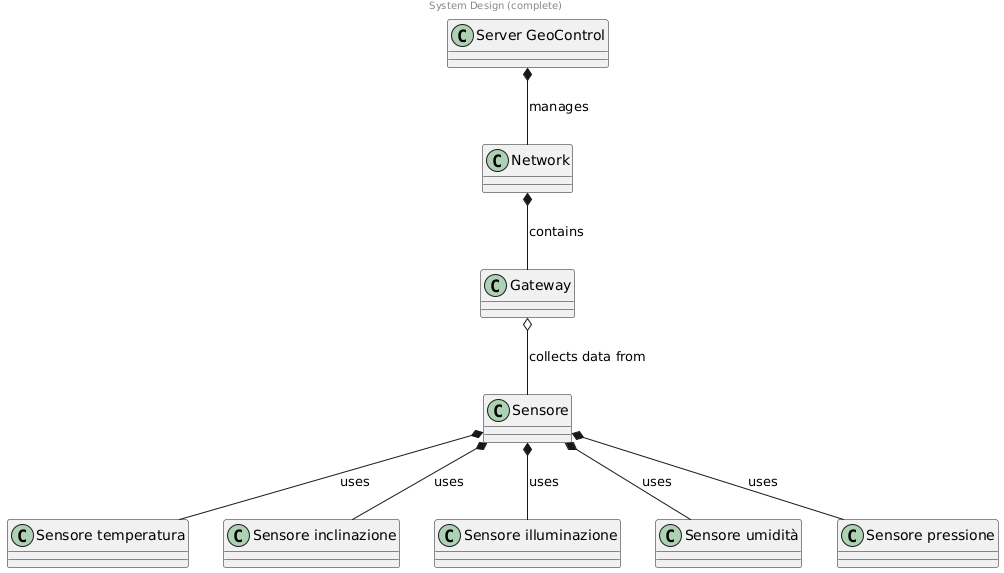
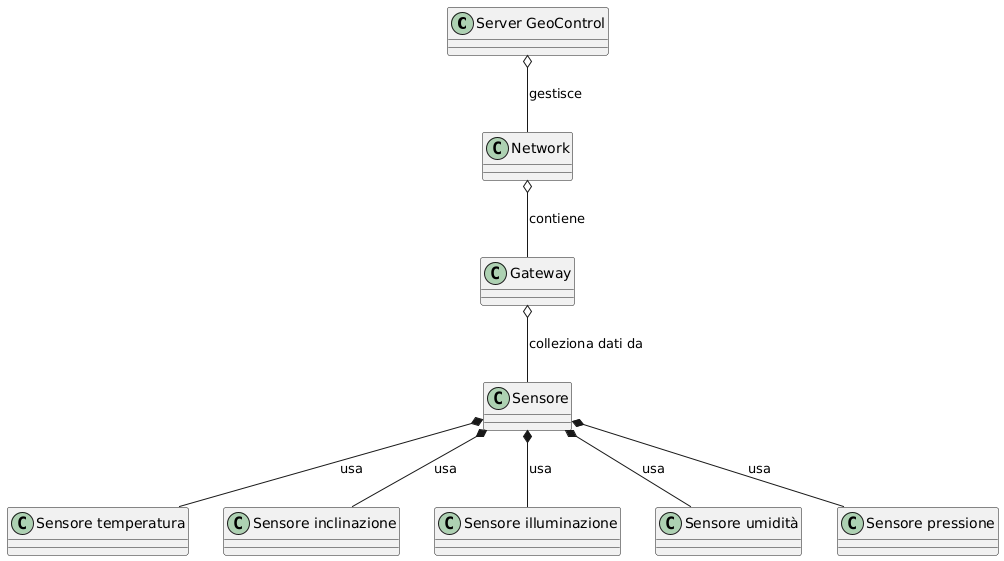
[req]: Aggiornato System design e deployment diagram

diff --git a/risorse/plantuml.md b/risorse/plantuml.md
@@ -187,3 +187,86 @@ Utente .. N1
 N1 .. Network
 @enduml
 ```
+
+## System Design
+
+``` plantuml
+@startuml
+' Definizione delle classi 
+class "Server GeoControl" as server
+class "Network" as network
+class "Gateway" as gateway
+class "Sensore" as sensore
+class "Sensore temperatura" as s_temperatura
+class "Sensore inclinazione" as s_inclinazione
+class "Sensore illuminazione" as s_illuminazione
+class "Sensore umidità" as s_umidità
+class "Sensore pressione" as s_pressione
+
+
+' Relazioni tra le classi
+
+server o-- network : gestisce
+network o-- gateway : contiene
+gateway o-- sensore : colleziona dati da
+sensore *-- s_temperatura : usa
+sensore *-- s_inclinazione : usa
+sensore *-- s_illuminazione : usa
+sensore *-- s_umidità : usa
+sensore *-- s_pressione : usa
+
+
+@enduml
+```
+
+
+## Deployment Diagram
+
+``` @startuml
+
+node "Server_GeoControl" {
+  component "GeoControl Application" {
+    artifact "GeoControl.war" {
+      node "Application Server" {
+        component "API"
+        component "Database"
+      }
+    }
+    note "Gestisce le Reti (logiche)\n di Gateway e Sensori. \nLe regole di accesso degli \nutenti sono definite a \nlivello di rete." as N1
+  }
+}
+
+node "Gateway_Devices" {
+  component "Gateway Software" {
+    artifact "GatewayApp.jar"
+  }
+  note "Appartiene a una Rete (logica). \nComunica con i sensori e il server." as N2
+}
+
+node "Sensor_Devices" {
+  component "Sensor Hardware"
+  note "Appartiene a una Rete \n(logica) tramite il Gateway. \nEffettua le misurazioni." as N3
+}
+
+database "Database_Server" {
+  node "Database Instance" {
+    component "GeoControl DB"
+  }
+  note "Memorizza informazioni \nsulle Reti, Gateway, \nSensori e utenti/permessi." as N4
+}
+
+node "User_Devices" {
+  component "ViewerBrowser"
+  component "OperatorBrowser"
+  component "AdministratorBrowser"
+  note "Interagiscono con l'applicazione,\ncon accesso limitato in base \nal ruolo e alla Rete." as N5
+}
+
+'Connessioni
+Gateway_Devices -- Server_GeoControl : "via Rete Internet"
+Sensor_Devices -- Gateway_Devices : "Connessione Seriale"
+User_Devices -- Server_GeoControl : "via Rete Internet (HTTP/HTTPS)"
+
+@enduml
+```
+

diff --git a/doc/TimeSheet.md b/doc/TimeSheet.md
@@ -12,7 +12,7 @@ These figures will not be used to evaluate neither the project nor the team, the
 | :------------: | :---------------------: | :----: | :----: | :----------: | :-----------------: | :----------------: | :--------------: | :--------: |
 |  Mar 24 - 30   |                         |        |        |              |                     |                    |                  |            |
 | Mar 31 - Apr 6 |          9ph            |        |        |              |                     |                    |                  |            |
-|   Apr 7 - 13   |           17ph              |        |        |              |                     |                    |                  |            |
+|   Apr 7 - 13   |           22ph              |        |        |              |                     |                    |                  |            |
 |  Apr 14 - 20   |                         |        |        |              |                     |                    |                  |            |
 |  Apr 21 - 27   |                         |        |        |              |                     |                    |                  |            |
 | Apr 28 - May 4 |                         |        |        |              |                     |                    |                  |            |
